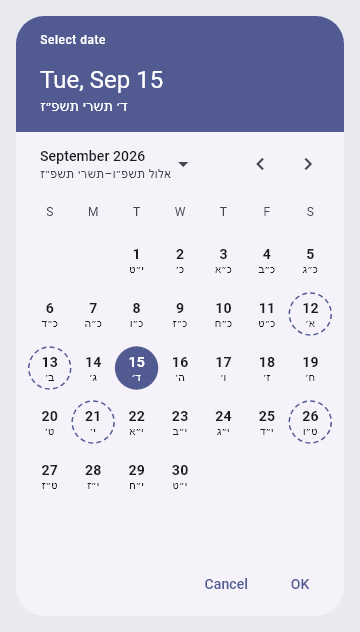
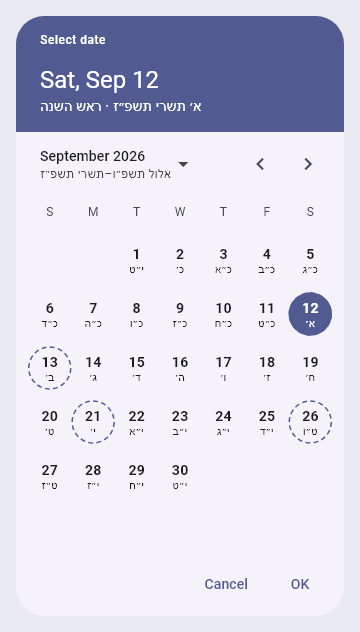
Show the name of a selected Yom Tov in the header

Changed region(s): [[0.0917, 0.0902, 0.55, 0.1804], [0.7944, 0.4509, 0.9472, 0.5411], [0.3056, 0.5411, 0.4583, 0.6313]]

diff --git a/lib/src/hebrew_date_picker.dart b/lib/src/hebrew_date_picker.dart
@@ -196,7 +196,8 @@ class HebrewDatePicker extends StatelessWidget {
   /// The decoration that marks the Yamim Tovim (Rosh Hashana, Yom Kippur, the first day of
   /// Sukkot, Shemini Atzeres, the first and last days of Pesach and Shavuos, as kept in Israel),
   /// e.g. a [BoxDecoration] with a colored border. It is painted behind the day, so a selected
-  /// day's circle covers it. Defaults to null, which marks no days.
+  /// day's circle covers it. When it is set, the header also shows the name of a selected Yom
+  /// Tov, e.g. "ראש השנה". Defaults to null, which marks no days.
   final Decoration? holidayDecoration;
 
   /// Locale used for the Gregorian month title and weekday names, e.g. 'he' or 'en_US'.
@@ -545,9 +546,13 @@ class _CalendarPickerState extends State<_CalendarPicker> {
     );
   }
 
-  /// The header. [hebrewTitle], the line of Hebrew dates under the Gregorian [title], is shown
-  /// only with [CalendarMode.both].
-  Widget _header({required String helpText, required String title, String? hebrewTitle}) {
+  /// The header. [subtitle], the line under [title], is shown only when [showSubtitle] is true.
+  Widget _header({
+    required String helpText,
+    required String title,
+    String? subtitle,
+    required bool showSubtitle,
+  }) {
     final textTheme = Theme.of(context).textTheme;
     return Container(
       color: _primaryColor,
@@ -559,10 +564,10 @@ class _CalendarPickerState extends State<_CalendarPicker> {
           Text(helpText, style: textTheme.labelMedium?.copyWith(color: _onPrimaryColor)),
           const SizedBox(height: 16),
           Text(title, style: textTheme.headlineSmall?.copyWith(color: _onPrimaryColor)),
-          if (_bothCalendars)
-            // Keeps the header height while the Hebrew line is empty.
+          if (showSubtitle)
+            // Keeps the header height while the line is empty.
             Text(
-              hebrewTitle ?? '',
+              subtitle ?? '',
               style: textTheme.bodyMedium?.copyWith(color: _onPrimaryColor),
             ),
         ],
@@ -572,12 +577,20 @@ class _CalendarPickerState extends State<_CalendarPicker> {
 
   Widget _selectedDateHeader() {
     final localizations = MaterialLocalizations.of(context);
+    final bool showHolidays = widget.holidayDecoration != null;
+    final String? holidayName = showHolidays ? _selectedDay.getYomTovName() : null;
     return _header(
       helpText: widget.helpText ?? localizations.datePickerHelpText,
       title: _hebrewMonths
           ? _selectedDay.getHebrewDateFormatted()
           : localizations.formatMediumDate(_selectedLocalDate),
-      hebrewTitle: _selectedDay.getHebrewDateFormatted(),
+      // The holiday's name follows the Hebrew date, or has the line to itself when the Hebrew
+      // date isn't shown there.
+      subtitle: [
+        if (_bothCalendars) _selectedDay.getHebrewDateFormatted(),
+        if (holidayName != null) holidayName,
+      ].join(' · '),
+      showSubtitle: _bothCalendars || showHolidays,
     );
   }
 
@@ -604,11 +617,12 @@ class _CalendarPickerState extends State<_CalendarPicker> {
       helpText: widget.helpText ?? localizations.dateRangePickerHelpText,
       title: '${start == null ? localizations.dateRangeStartLabel : format(start)} – '
           '${end == null ? localizations.dateRangeEndLabel : format(end)}',
-      hebrewTitle: start == null
+      subtitle: start == null
           ? null
           : end == null
               ? start.getHebrewDateFormatted()
               : '${start.getHebrewDateFormatted()} – ${end.getHebrewDateFormatted()}',
+      showSubtitle: _bothCalendars,
     );
   }
 

diff --git a/test/hebrew_date_picker_test.dart b/test/hebrew_date_picker_test.dart
@@ -61,6 +61,12 @@ void main() {
         expect(day.isYomTov(), isFalse, reason: '$day');
       }
     });
+
+    test('getYomTovName names the Yom Tov in Hebrew', () {
+      expect(DateTime(2026, 9, 12).getYomTovName(), 'ראש השנה');
+      expect(DateTime(2026, 10, 3).getYomTovName(), 'שמיני עצרת');
+      expect(DateTime(2026, 9, 28).getYomTovName(), isNull); // Chol Hamoed Sukkot
+    });
   });
 
   group('holidayDecoration', () {
@@ -71,6 +77,7 @@ void main() {
 
     Future<void> pumpPicker(
       WidgetTester tester, {
+      DateTime? initialDate,
       Decoration? holidayDecoration,
       CalendarMode calendarMode = CalendarMode.both,
     }) {
@@ -79,7 +86,7 @@ void main() {
           home: Scaffold(
             body: SingleChildScrollView(
               child: HebrewDatePicker(
-                initialDate: DateTime(2026, 9, 14),
+                initialDate: initialDate ?? DateTime(2026, 9, 14),
                 firstDate: DateTime(2020),
                 lastDate: DateTime(2030),
                 calendarMode: calendarMode,
@@ -107,6 +114,29 @@ void main() {
       await pumpPicker(tester, holidayDecoration: decoration, calendarMode: CalendarMode.hebrew);
       // Tishrei: Rosh Hashana (two days), Yom Kippur, Sukkot and Shemini Atzeres.
       expect(holidayMark, findsNWidgets(5));
+    });
+
+    testWidgets('shows the name of a selected Yom Tov after the Hebrew date', (tester) async {
+      await pumpPicker(tester, holidayDecoration: decoration);
+      expect(find.textContaining('ראש השנה'), findsNothing);
+      await tester.tap(find.text('12'));
+      await tester.pump();
+      expect(find.text('א׳ תשרי תשפ״ז · ראש השנה'), findsOneWidget);
+    });
+
+    testWidgets('shows the name on its own line with one calendar', (tester) async {
+      await pumpPicker(
+        tester,
+        initialDate: DateTime(2026, 9, 21),
+        holidayDecoration: decoration,
+        calendarMode: CalendarMode.gregorian,
+      );
+      expect(find.text('יום כיפור'), findsOneWidget);
+    });
+
+    testWidgets('shows no name without holidayDecoration', (tester) async {
+      await pumpPicker(tester, initialDate: DateTime(2026, 9, 12));
+      expect(find.textContaining('ראש השנה'), findsNothing);
     });
 
     testWidgets('the form field passes it to the picker', (tester) async {

diff --git a/lib/src/hebrew_date_extension.dart b/lib/src/hebrew_date_extension.dart
@@ -13,10 +13,17 @@ extension HebrewDateExtension on DateTime {
   /// Whether this day is a Yom Tov as kept in Israel: Rosh Hashana, Yom Kippur, the first day
   /// of Sukkot, Shemini Atzeres, the first and last days of Pesach, or Shavuos.
   /// Chol Hamoed, Chanukah, Purim, fasts and modern holidays are not.
-  bool isYomTov() {
-    final calendar = JewishCalendar.fromDateTime(DateTime(year, month, day))..inIsrael = true;
-    return calendar.isYomTovAssurBemelacha();
+  bool isYomTov() => _israelCalendar.isYomTovAssurBemelacha();
+
+  /// The Hebrew name of the Yom Tov on this day, e.g. "ראש השנה", or null when [isYomTov] is
+  /// false.
+  String? getYomTovName() {
+    final calendar = _israelCalendar;
+    return calendar.isYomTovAssurBemelacha() ? _hebrewFormatter.formatYomTov(calendar) : null;
   }
+
+  JewishCalendar get _israelCalendar =>
+      JewishCalendar.fromDateTime(DateTime(year, month, day))..inIsrael = true;
 
   /// The Hebrew day of month in letters, e.g. "כ״ו".
   String getHebrewDayOfMonth() {

diff --git a/README.md b/README.md
@@ -213,7 +213,8 @@ disabled when today is outside `firstDate`–`lastDate` or isn't selectable.
 `holidayDecoration` marks the Yamim Tovim: Rosh Hashana, Yom Kippur, the first day of Sukkot,
 Shemini Atzeres, the first and last days of Pesach and Shavuos, as kept in Israel. Chol
 Hamoed, Chanukah, Purim, fasts and modern holidays are not marked. It takes any `Decoration`,
-painted behind the day, so a selected day's circle covers it. For example, an orange ring:
+painted behind the day, so a selected day's circle covers it. When a Yom Tov is selected, the
+date picker's header shows its name after the Hebrew date. For example, an orange ring:
 
 ```dart
 showHebrewDatePicker(
@@ -228,8 +229,9 @@ showHebrewDatePicker(
 );
 ```
 
-Here the dashed circles mark Rosh Hashana (12–13), Yom Kippur (21) and Sukkot (26). The
-example app draws them with a custom `Decoration`:
+Here the dashed circles mark Rosh Hashana (12–13), Yom Kippur (21) and Sukkot (26), and the
+header names the selected day, Rosh Hashana. The example app draws the circles with a custom
+`Decoration`:
 
 <img src="https://raw.githubusercontent.com/blimyp/hebrew_date_picker/main/screenshots/hebrew_holidays.png" alt="Hebrew date picker marking the Yamim Tovim with a dashed circle" width="260">
 
@@ -247,6 +249,7 @@ DateTime(2026, 9, 12).getHebrewDayOfMonth();    // א׳
 DateTime(2026, 9, 1).getHebrewMonthsOfMonth();  // אלול–תשרי תשפ״ז
 DateTime(1990).getHebrewYearsOfYear();          // תש״נ–תשנ״א
 DateTime(2026, 9, 21).isYomTov();               // true (Yom Kippur)
+DateTime(2026, 9, 21).getYomTovName();          // יום כיפור
 ```
 
 ## Example

diff --git a/CHANGELOG.md b/CHANGELOG.md
@@ -4,7 +4,10 @@
   Hashana, Yom Kippur, the first day of Sukkot, Shemini Atzeres, the first and last days of
   Pesach and Shavuos, as kept in Israel) with any `Decoration`, e.g. a colored ring. Defaults
   to null, which marks no days.
+* With `holidayDecoration`, the date picker's header shows the name of a selected Yom Tov,
+  e.g. `א׳ תשרי תשפ״ז · ראש השנה`.
 * Add `DateTime.isYomTov()`, e.g. to disable the Yamim Tovim with `selectableDayPredicate`.
+* Add `DateTime.getYomTovName()`, e.g. `ראש השנה`.
 * Add a screenshot of `holidayDecoration`.
 
 ## 0.4.0
